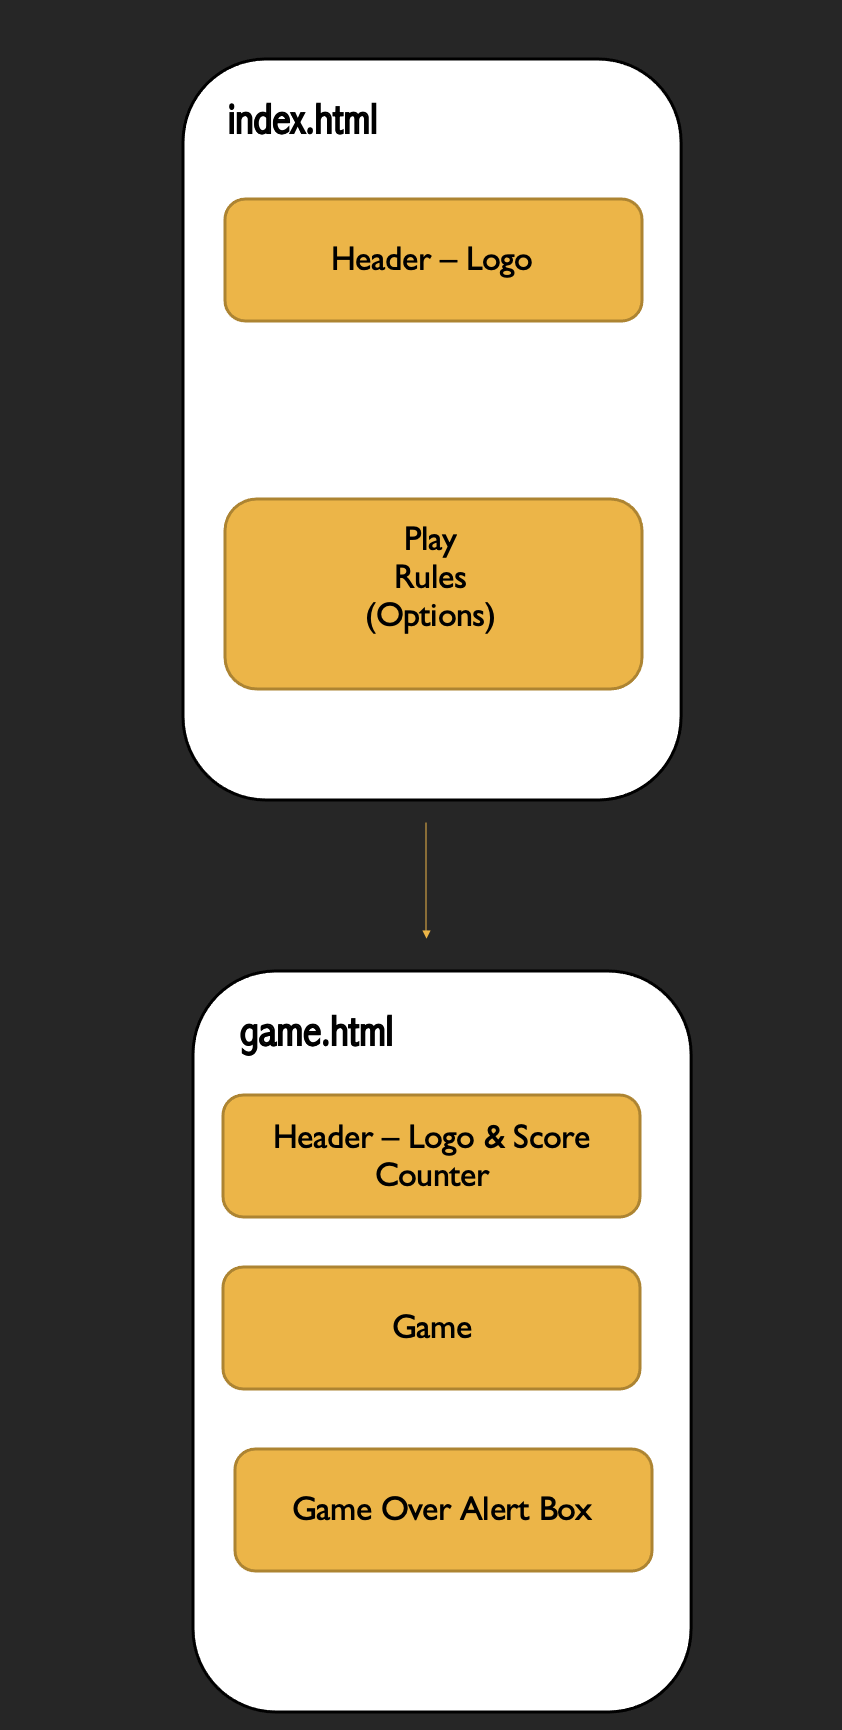
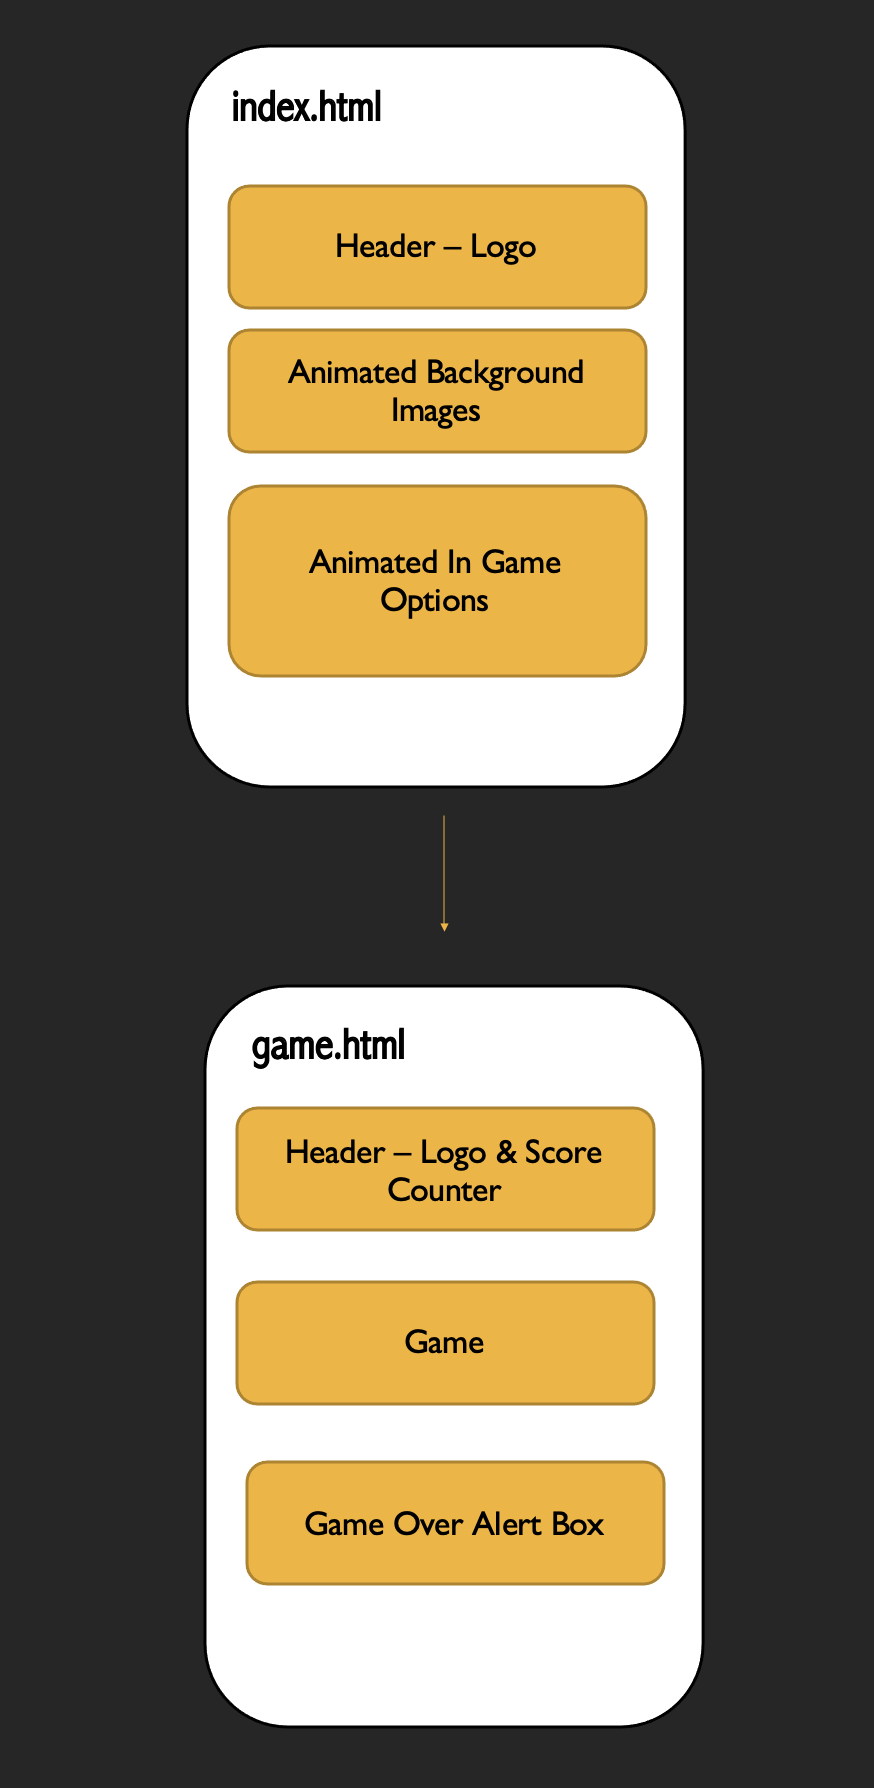
Write readme up till colours on surface plane

Changed region(s): [[0.1853, 0.0, 0.8337, 0.9988]]

diff --git a/README.md b/README.md
@@ -158,23 +158,42 @@ The inception of Spacescape resulted from the gap in the market for Retrogaming 
 
 
 ### index.html:
--	Header – introduces MIND**X** official logo and familiarises the user with the site’s navigational planes, leveraging their prior experience. 
--	Background Image & Ethos – reinforces the identity of the website and creates and eye-catching landing page.  
--	Footer – provides social media and contact details so that when the user concludes they can get in contact.  
+-	Header – introduces the SPACESCAPE logo, giving the user a first glimpse into the theme behind the game. 
+-	 Animated Background Images – both indicative of the overall premiss and style of the game, confirming the user’s expectations. 
+-	Animated In Game Options – act as a navigation for the user as well as introducing the story behind the game. 
 
-### guided-meditation.html:
--	Header – keeps the site consistent, offers another call to action & provides easy navigation (e.g., sticky header).  
--	Intro To MINDX & MBCT – creates brand awareness and begins to address user stories, as well as introduces the key concepts of the brand (USP). 
--	Mindfulness Meditations 1 – 4 – most important and visited part of the website, lessons build on each other in terms of relevance and difficulty making the next exercise easier. 
--	Footer – again keeps the site consistent creating familiarity. 
-
-### sign-up.html:
--	Header – creates uniformity and establishes conventions. 
--	Call To Action Signup Form – allows users to create an account with MINDX in a bid to develop a core client base.  
--	Interactive Image – creates interest around the page whilst strengthening the brand. 
--	Footer – gives another opportunity to get in touch and explore.   
+### game.html:
+-	Header – keeps with the consistency of the site and a navigation to the home page. 
+-	Game – the main landscape of the site which includes interactive and responsive player sprite and obstacles. 
+-	Game Over Alert Box – validates and gives feedback to the user such as game over, score and restarts the page. 
 
 [Back To Top](#mindx)
 
 ***
 # Skeleton 
+Balsamic was used to create wireframes, thus determining the basic navigation and design interface of the site. Since Spacescape’s appeal and exclusivity leverages the Retrogaming standard, a simple layout as well stylistic choices suggestive of this are implemented. For example, games such as Super Mario All-Stars (1993), The Legend Of Zelda A Link To The Past (1992) and Street Fighter II Turbo (1992) etc… all implore a basic navigation and controls, 16-bit graphics, garish yet complementary colours and animations. Finally, since Spacescape is a game, confirmation, validation and feedback are extremely important to the overall functionality and user experience.  
+
+### Balsamic Wireframes:
+![Site Wireframe](assets/readme-assets/index.png)  
+
+![Site Wireframe](assets/readme-assets/game.png)  
+
+![Site Wireframe](assets/readme-assets/index-phone.png)  
+
+![Site Wireframe](assets/readme-assets/game-phone.png)  
+ 
+
+[Back To Top](#mindx)
+
+***
+# Surface
+
+## Colour Scheme  
+Spacescape uses a rich and varied colour story as expected with retro gamming, specifically 8bit. The main colour pairings are #76f6f0, #2392d2, #006aaf, #004891, #022345 which are all different shades of blue emulating the coldness of deep space as well as reflecting the background image. 
+![Color Scheme](assets/readme-assets/spacescape-main-colours.png)
+
+The next colour grouping is #ffdd5c, #feaf34, #fea200, #fb6a04 and #ff5100 which range from yellow to orange and mimic a spaceships flame and are used for validation to suggest something is action (blasting off). They also act as a tease colour story for future releases. 
+![Color Scheme](assets/readme-assets/validation-and-future-colours.png)
+
+Finally #00000, #ffffff and #ff3e4f are used as accents (e.g. font colours and further validation). 
+![Color Scheme](assets/readme-assets/accenting-colours.png)
